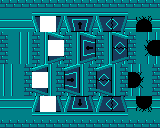
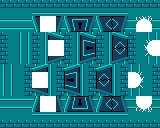
bombed door sprite stuff works now

diff --git a/cse3902/SpriteFactory/DoorSpriteFactory.cs b/cse3902/SpriteFactory/DoorSpriteFactory.cs
@@ -31,6 +31,7 @@ namespace cse3902.SpriteFactory
         {
             doorTextures.Add("doors", content.Load<Texture2D>("doors"));
             doorTextures.Add("staircase", content.Load<Texture2D>("staircase"));
+            doorTextures.Add("black", content.Load<Texture2D>("black"));
 
             doorStateRectangleMap.Add(IDoor.DoorState.Wall, 0);
             doorStateRectangleMap.Add(IDoor.DoorState.Open, 1);
@@ -62,28 +63,28 @@ namespace cse3902.SpriteFactory
         public IDoorSprite CreateUpDoorSprite(SpriteBatch spriteBatch, Vector2 startingPos, IDoor.DoorState doorState)
         {
             Rectangle doorRectangle = doorRectangles[0][doorStateRectangleMap[doorState]];
-            if (doorState == IDoor.DoorState.Open || doorState == IDoor.DoorState.Bombed) return new NormalUpOpenDoorSprite(spriteBatch, doorTextures["doors"], startingPos, doorRectangle);
+            if (doorState == IDoor.DoorState.Open || doorState == IDoor.DoorState.Bombed) return new NormalUpOpenDoorSprite(spriteBatch, doorTextures["black"], doorTextures["doors"], startingPos, doorRectangle, doorState == IDoor.DoorState.Bombed);
             return new NormalNonOpenDoorSprite(spriteBatch, doorTextures["doors"], startingPos, doorRectangle);
         }
 
         public IDoorSprite CreateLeftDoorSprite(SpriteBatch spriteBatch, Vector2 startingPos, IDoor.DoorState doorState)
         {
             Rectangle doorRectangle = doorRectangles[1][doorStateRectangleMap[doorState]];
-            if (doorState == IDoor.DoorState.Open || doorState == IDoor.DoorState.Bombed) return new NormalLeftOpenDoorSprite(spriteBatch, doorTextures["doors"], startingPos, doorRectangle);
+            if (doorState == IDoor.DoorState.Open || doorState == IDoor.DoorState.Bombed) return new NormalLeftOpenDoorSprite(spriteBatch, doorTextures["black"], doorTextures["doors"], startingPos, doorRectangle, doorState == IDoor.DoorState.Bombed);
             return new NormalNonOpenDoorSprite(spriteBatch, doorTextures["doors"], startingPos, doorRectangle);
         }
 
         public IDoorSprite CreateRightDoorSprite(SpriteBatch spriteBatch, Vector2 startingPos, IDoor.DoorState doorState)
         {
             Rectangle doorRectangle = doorRectangles[2][doorStateRectangleMap[doorState]];
-            if (doorState == IDoor.DoorState.Open || doorState == IDoor.DoorState.Bombed) return new NormalRightOpenDoorSprite(spriteBatch, doorTextures["doors"], startingPos, doorRectangle);
+            if (doorState == IDoor.DoorState.Open || doorState == IDoor.DoorState.Bombed) return new NormalRightOpenDoorSprite(spriteBatch, doorTextures["black"], doorTextures["doors"], startingPos, doorRectangle, doorState == IDoor.DoorState.Bombed);
             return new NormalNonOpenDoorSprite(spriteBatch, doorTextures["doors"], startingPos, doorRectangle);
         }
 
         public IDoorSprite CreateDownDoorSprite(SpriteBatch spriteBatch, Vector2 startingPos, IDoor.DoorState doorState)
         {
             Rectangle doorRectangle = doorRectangles[3][doorStateRectangleMap[doorState]];
-            if (doorState == IDoor.DoorState.Open || doorState == IDoor.DoorState.Bombed) return new NormalDownOpenDoorSprite(spriteBatch, doorTextures["doors"], startingPos, doorRectangle);
+            if (doorState == IDoor.DoorState.Open || doorState == IDoor.DoorState.Bombed) return new NormalDownOpenDoorSprite(spriteBatch, doorTextures["black"], doorTextures["doors"], startingPos, doorRectangle, doorState == IDoor.DoorState.Bombed);
             return new NormalNonOpenDoorSprite(spriteBatch, doorTextures["doors"], startingPos, doorRectangle);
         }
 

diff --git a/cse3902/Sprites/DoorSprites/NormalDownOpenDoorSprite.cs b/cse3902/Sprites/DoorSprites/NormalDownOpenDoorSprite.cs
@@ -8,15 +8,17 @@ namespace cse3902.Sprites
     {
         private SpriteBatch spriteBatch;
         private Texture2D spriteTexture;
+        private Texture2D blackTexture;
         private Vector2 center;
-
 
         private Rectangle dest;
         private Rectangle door;
 
+        private bool bombedDoor;
+
         private const float sizeIncrease = 1f;
 
-        public NormalDownOpenDoorSprite(SpriteBatch spriteBatch, Texture2D texture, Vector2 startingPosition, Rectangle wantedDoor)
+        public NormalDownOpenDoorSprite(SpriteBatch spriteBatch, Texture2D blackTexture, Texture2D texture, Vector2 startingPosition, Rectangle wantedDoor, bool bombed)
         {
             this.spriteBatch = spriteBatch;
             spriteTexture = texture;
@@ -24,12 +26,15 @@ namespace cse3902.Sprites
             center = startingPosition;
 
             door = wantedDoor;
+            bombedDoor = bombed;
+            this.blackTexture = blackTexture;
         }
 
         public void Draw()
         {
             Vector2 origin = new Vector2(door.Width / 2f, door.Height / 2f);
             Rectangle Destination = new Rectangle((int)center.X, (int)center.Y, (int)(door.Width * sizeIncrease), (int)(door.Height * sizeIncrease));
+            if (bombedDoor) spriteBatch.Draw(blackTexture, Destination, null, Color.White, 0, origin, SpriteEffects.None, SpriteUtilities.BombedDoorBackgroundLayer);
             spriteBatch.Draw(spriteTexture, Destination, door, Color.White, 0, origin, SpriteEffects.None, SpriteUtilities.TopBackgroundLayer);
         }
 

diff --git a/cse3902/Sprites/DoorSprites/NormalRightOpenDoorSprite.cs b/cse3902/Sprites/DoorSprites/NormalRightOpenDoorSprite.cs
@@ -8,14 +8,17 @@ namespace cse3902.Sprites
     {
         private SpriteBatch spriteBatch;
         private Texture2D spriteTexture;
+        private Texture2D blackTexture;
         private Vector2 center;
 
         private Rectangle dest;
         private Rectangle door;
 
+        private bool bombedDoor;
+
         private const float sizeIncrease = 1f;
 
-        public NormalRightOpenDoorSprite(SpriteBatch spriteBatch, Texture2D texture, Vector2 startingPosition, Rectangle wantedDoor)
+        public NormalRightOpenDoorSprite(SpriteBatch spriteBatch, Texture2D blackTexture, Texture2D texture, Vector2 startingPosition, Rectangle wantedDoor, bool bombed)
         {
             this.spriteBatch = spriteBatch;
             spriteTexture = texture;
@@ -23,12 +26,15 @@ namespace cse3902.Sprites
             center = startingPosition;
 
             door = wantedDoor;
+            bombedDoor = bombed;
+            this.blackTexture = blackTexture;
         }
 
         public void Draw()
         {
             Vector2 origin = new Vector2(door.Width / 2f, door.Height / 2f);
             Rectangle Destination = new Rectangle((int)center.X, (int)center.Y, (int)(door.Width * sizeIncrease), (int)(door.Height * sizeIncrease));
+            if (bombedDoor) spriteBatch.Draw(blackTexture, Destination, null, Color.White, 0, origin, SpriteEffects.None, SpriteUtilities.BombedDoorBackgroundLayer);
             spriteBatch.Draw(spriteTexture, Destination, door, Color.White, 0, origin, SpriteEffects.None, SpriteUtilities.TopBackgroundLayer);
         }
 

diff --git a/cse3902/Sprites/DoorSprites/NormalLeftOpenDoorSprite.cs b/cse3902/Sprites/DoorSprites/NormalLeftOpenDoorSprite.cs
@@ -8,14 +8,17 @@ namespace cse3902.Sprites
     {
         private SpriteBatch spriteBatch;
         private Texture2D spriteTexture;
+        private Texture2D blackTexture;
         private Vector2 center;
 
         private Rectangle dest;
         private Rectangle door;
 
+        private bool bombedDoor;
+
         private const float sizeIncrease = 1f;
 
-        public NormalLeftOpenDoorSprite(SpriteBatch spriteBatch, Texture2D texture, Vector2 startingPosition, Rectangle wantedDoor)
+        public NormalLeftOpenDoorSprite(SpriteBatch spriteBatch, Texture2D blackTexture, Texture2D texture, Vector2 startingPosition, Rectangle wantedDoor, bool bombed)
         {
             this.spriteBatch = spriteBatch;
             spriteTexture = texture;
@@ -23,12 +26,15 @@ namespace cse3902.Sprites
             center = startingPosition;
 
             door = wantedDoor;
+            bombedDoor = bombed;
+            this.blackTexture = blackTexture;
         }
 
         public void Draw()
         {
             Vector2 origin = new Vector2(door.Width / 2f, door.Height / 2f);
             Rectangle Destination = new Rectangle((int)center.X, (int)center.Y, (int)(door.Width * sizeIncrease), (int)(door.Height * sizeIncrease));
+            if (bombedDoor) spriteBatch.Draw(blackTexture, Destination, null, Color.White, 0, origin, SpriteEffects.None, SpriteUtilities.BombedDoorBackgroundLayer);
             spriteBatch.Draw(spriteTexture, Destination, door, Color.White, 0, origin, SpriteEffects.None, SpriteUtilities.TopBackgroundLayer);
         }
 

diff --git a/cse3902/Sprites/DoorSprites/NormalUpOpenDoorSprite.cs b/cse3902/Sprites/DoorSprites/NormalUpOpenDoorSprite.cs
@@ -8,14 +8,17 @@ namespace cse3902.Sprites
     {
         private SpriteBatch spriteBatch;
         private Texture2D spriteTexture;
+        private Texture2D blackTexture;
         private Vector2 center;
 
         private Rectangle dest;
         private Rectangle door;
 
+        private bool bombedDoor;
+
         private const float sizeIncrease = 1f;
 
-        public NormalUpOpenDoorSprite(SpriteBatch spriteBatch, Texture2D texture, Vector2 startingPosition, Rectangle wantedDoor)
+        public NormalUpOpenDoorSprite(SpriteBatch spriteBatch, Texture2D blackTexture, Texture2D texture, Vector2 startingPosition, Rectangle wantedDoor, bool bombed)
         {
             this.spriteBatch = spriteBatch;
             spriteTexture = texture;
@@ -23,12 +26,15 @@ namespace cse3902.Sprites
             center = startingPosition;
 
             door = wantedDoor;
+            bombedDoor = bombed;
+            this.blackTexture = blackTexture;
         }
 
         public void Draw()
         {
             Vector2 origin = new Vector2(door.Width / 2f, door.Height / 2f);
             Rectangle Destination = new Rectangle((int)center.X, (int)center.Y, (int)(door.Width * sizeIncrease), (int)(door.Height * sizeIncrease));
+            if (bombedDoor) spriteBatch.Draw(blackTexture, Destination, null, Color.White, 0, origin, SpriteEffects.None, SpriteUtilities.BombedDoorBackgroundLayer);
             spriteBatch.Draw(spriteTexture, Destination, door, Color.White, 0, origin, SpriteEffects.None, SpriteUtilities.TopBackgroundLayer);
         }
 

diff --git a/cse3902/Sprites/SpriteUtilities.cs b/cse3902/Sprites/SpriteUtilities.cs
@@ -11,6 +11,7 @@ namespace cse3902.Sprites
         public static float EnemyLayer { get => .65f; }
         public static float ItemLayer { get => .7f; }
         public static float BlockLayer { get => .8f; }
+        public static float BombedDoorBackgroundLayer { get => .9f; }
         public static float BackgroundLayer { get => .95f; }
 
         public static Rectangle[] distributeFrames(int columns, int rows, int frameWidth, int frameHeight)
